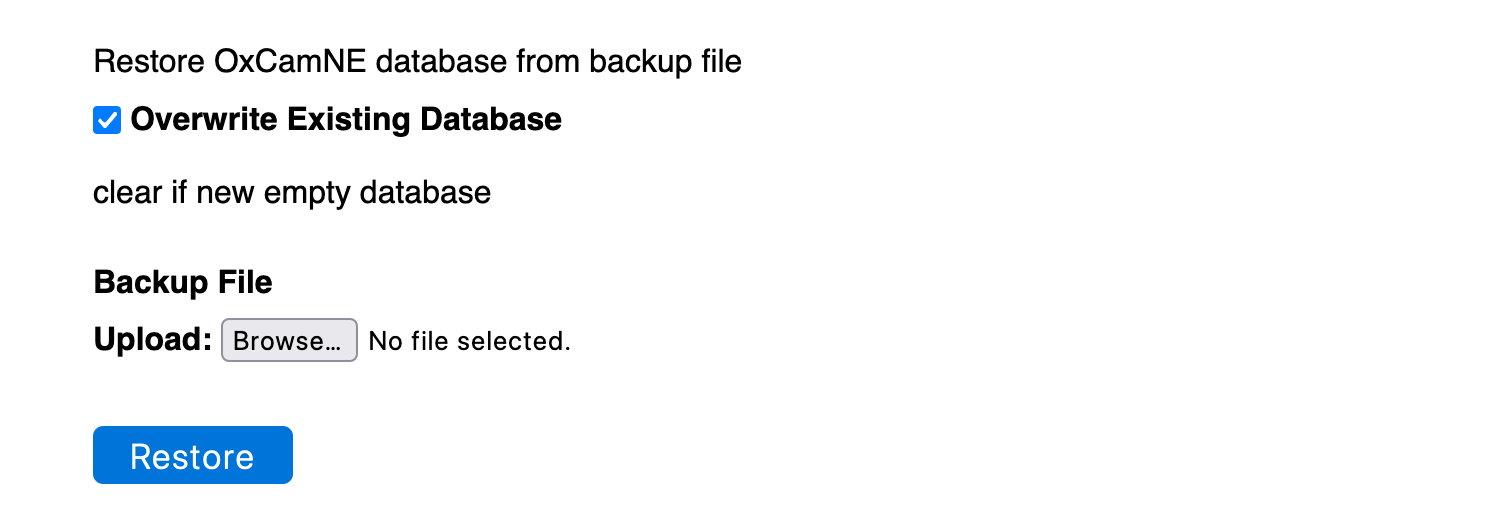
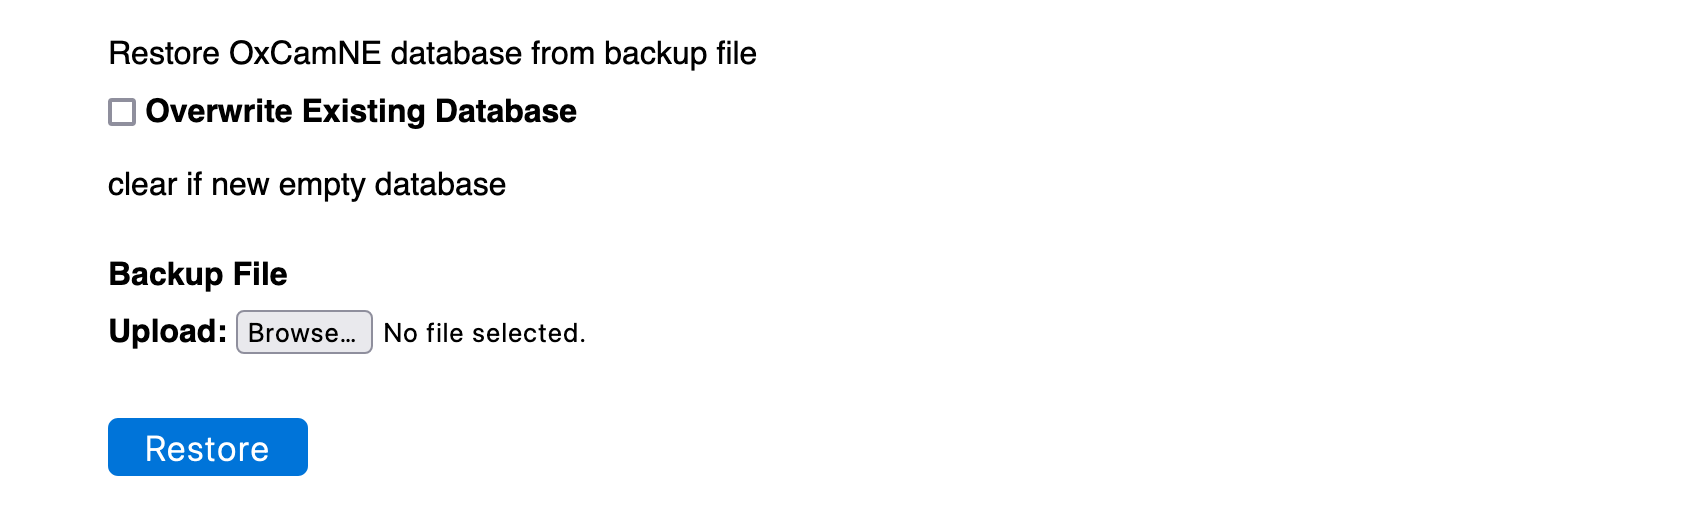
db_restore default NOT overwrite existing database

diff --git a/tools.py b/tools.py
@@ -77,7 +77,7 @@ def db_restore():
 	header = f"Restore {SOCIETY_SHORT_NAME} database from backup file"
 	
 	form = Form([Field('overwrite_existing_database', 'boolean',
-	       				default=True, comment='clear if new empty database'),
+	       				default=False, comment='clear if new empty database'),
 				Field('backup_file', 'upload', uploadfield = False)],
 				submit_value = 'Restore')
 	

diff --git a/docs/install.md b/docs/install.md
@@ -165,25 +165,25 @@ generic product used for all event charges, with price and description configure
 in real time. STRIPE_PROD_FULL is an annual subscription product for full members;
 STRIPE_PROD_STUDENT is a one year renewable student membership.
 
-### Start the database and load minimal contents
+### Start the database
 
 Once the app is installed and your settings_private.py file is configured you should restart py4web. If py4web is already running you can use the 'Reload Apps' button in the 'Installed Applications' section of the Py4web Dashboard. You should now see the oxcam app running
 as an installed application.
 
 When first started the app creates an empty database in a databases/ folder in the py4web/apps/oxcam directory.
 
-Browse to the database at \<your py4web url\>/oxcam. You will be asked to login using your email. Oxcam sends a one-time
+### Load a Minimal Database
+
+Browse to the database at \<your_py4web_url\>/oxcam. You will be asked to login using your email. Oxcam sends a one-time
 link to your email. The link opens a new tab ready for you to upload a copy of database contents:
 
 ![db_restore form](images/db_restore.png)
-
-In this scenario, the Overwrite checkbox should be cleared; leaving it set deletes any existing database content and renumbers all records, which will break any external links such as registration links.
 
 The kit contains a file, db_oxcam_minimal.csv in the py4web/apps/oxcam directory. Csv files are used to backup and restore the contents of the database.
 The minimal database defines the Colleges table including all the
 Oxford and Cambridge Colleges, defines the default mailing list, a prototype chart of accounts, sample bank and payment processor records as well as some bank rules.
 
-To use the minimal database file, copy it from the kit to your local device where you browser is running. From here you can upload it to the database server. You will then need to login once more, and will be taken to the index page:
+To use the minimal database file, copy it from the kit to your local device where you browser is running. Click Browse and find the .csv file, then click restore. You will then need to login once more, and will be taken to the index page:
 
 ![inital index](images/Initial_index.png)
 
@@ -198,6 +198,8 @@ member record. The form to join the mailing list looks like:
 Once you have created your own record, as it is first into the database it is automatically assigned 'admin' access and all the function links appear on the navigation bar:
 
 ![navigation bar](images/navigation_bar.png)
+
+If your group is for alumni of only one of the Universities, you may wish to eliminate the irrelevant Colleges. You can use **db_tool** to do this.
 
 ### Scheduled Tasks
 

diff --git a/docs/db_tool.md b/docs/db_tool.md
@@ -1,0 +1,28 @@
+# [Oxford/Cambridge Alumni Group Database - Support Guide](support.md)
+
+## db_tool
+
+This is a powerful database management tool. It assumes the user is familiar with the database schema as defined in models.py and how to build queries. Refer to the [py4web DAL documentation](https://py4web.com/_documentation/static/en/chapter-07.html#) chapter.
+
+To access the tool browse to \<your_py4web_url\>/oxcam/db_tool. You will see:
+
+![db_tool](images/db_tool.png)
+
+As the headings indicate, the query is as described in the py4web documentation, as applied to the database schema defined in py4web/apps/oxcam/models.py.
+
+For example, we might want to list lapsed members by selecting those marked as members but with a paid date prior to some past date. The query might be:
+
+`(db.Members.Membership!=None)&(db.Members.Paiddate<="2021-09-30")`
+
+Submitting this query displays a grid of the results below the form. When, as in this case, the displayed records contain many fields, the results can be horizontally scrolled to view additional fields.
+
+Individual records can be edited or deleted, and new records can be created using the +New button. When editing or creating records, the grid is replaced by a form with its own submit button.
+
+Bulk updates are also possible. The example is pertinent as, from time to time, I modify lapsed members and clear their membership, in order to remove them from the online directory. The second part of the form allows this. Ticking the 'Do Update' box and entering parameters, e.g. in the example discussed:
+
+`Membership=None`
+
+and pressing Submit applies the bulk update. 'update_record' is used, as [documented here](https://py4web.com/_documentation/static/en/chapter-07.html#update-record). The grid will update (in the example it would now be empty).
+A list of fields can be included, e.g. `Field1=value1, Field2=value2, ...`. The values can reference existing fields in the record, for example `Field1=db.Table.Field2+db.Table.Field3` (the value is a Python expression).
+
+There is also a checkbox to do a bulk delete. **This is very dangerous.** Not only are the displayed records deleted, so are all records in other tables that reference them (cascading delete). So for example, in the Accounts module, if you delete an account from the Chart of Accounts (CoA table), all recorded transactions assigned to that account will be deleted (AccTrans table).

diff --git a/docs/support.md b/docs/support.md
@@ -6,4 +6,14 @@ The online database is an open source [project](https://github.com/oxcamne/oxcam
 
  Oxcam is a [Python](https://www.python.org) App running under the open source web framework [Py4web](https://github.com/web2py/py4web). Please see the Py4web documentation for information on it's installation.
 
-You need a web server belonging to the organization. OxCamNE uses PythonAnywhere and has an account there with username 'oxcamne', hence the database is reached at [https://oxcamne.pythonanywhere.com/oxcam](https://oxcamne.pythonanywhere.com/oxcam). This is a low cost and relatively straightforward option. Whatever your choice of web server, first ensure that the prerequisites described in the README are satisfied and that you have Py4web up and running on your web server. The Py4web documentation has information on installing Py4web on a variety of environments. Finally [**install the oxcam app**](install).
+You need a web server belonging to the organization. OxCamNE uses PythonAnywhere and has an account there with username 'oxcamne', hence the database is reached at [https://oxcamne.pythonanywhere.com/oxcam](https://oxcamne.pythonanywhere.com/oxcam). This is a low cost and relatively straightforward option. Whatever your choice of web server, first ensure that the prerequisites described in the README are satisfied and that you have Py4web up and running on your web server. The [Py4web documentation](https://py4web.com/_documentation) has information on installing Py4web on a variety of environments.
+
+See instructions on installing the oxcam app [**here**](install).
+
+For managing and supporting the database there are a number of tools:
+
+- depending where your web server is hosted there will be a **web console** to handle its basic operation. In the case of PythonAnywhere, you reach this by logging in to the groups PythonAnywhere account. This is where you go to start or stop the server, to apply software updates, to examine web traffic logs, to download database backup files for archival elsewhere, etc.
+
+- the **Py4web dashboard** will be used primarily to examine any failure tickets. It may also be used for some database administration tasks.
+
+- there are various admin tools built into oxcam. These include [**db_restore**](db_restore.md), [**db_backup**](db_backup.md), [**db_tool**](db_tool.md), and **stripe_tool**.

diff --git a/docs/db_restore.md b/docs/db_restore.md
@@ -1,0 +1,16 @@
+# [Oxford/Cambridge Alumni Group Database - Support Guide](support.md)
+
+## db_restore tool
+
+This tool allows the database to be recreated from a backup .csv file.
+
+If using SQLite, first stop the web server, delete the py4web/apps/oxcam/databases folder and its contents, and then restart the web server. This creates a clean, but empty, database.
+
+Browse to \<your py4web url\>/oxcam/db_restore. You will see:
+
+![db_restore form](images/db_restore.png)
+
+Use Browse... to locate the backup.csv file you wish to use, then click Restore.
+When the database is loaded, you will need to login again.
+
+The Overwrite checkbox can be used in a development context to reload a clean database without starting/stopping the web server or deleting the existing database; it deletes all existing database content, however all the imported records are renumbered, which will break any external links such as registration links.

diff --git a/docs/db_backup.md b/docs/db_backup.md
@@ -1,0 +1,9 @@
+# [Oxford/Cambridge Alumni Group Database - Support Guide](support.md)
+
+## db_backup tool
+
+This tool allows the database to be backed up and downloaded to a .csv file on the local device.
+
+Normally, the daily maintenance task automatically backs up the database each night. These files are created in the py4web/ directory of the web server.
+
+To create download a real-time backup of the database on your local device, simply browse to \<your_py4web_url\>/oxcam/db_backup. The backup will be downloaded silently to your local device.
